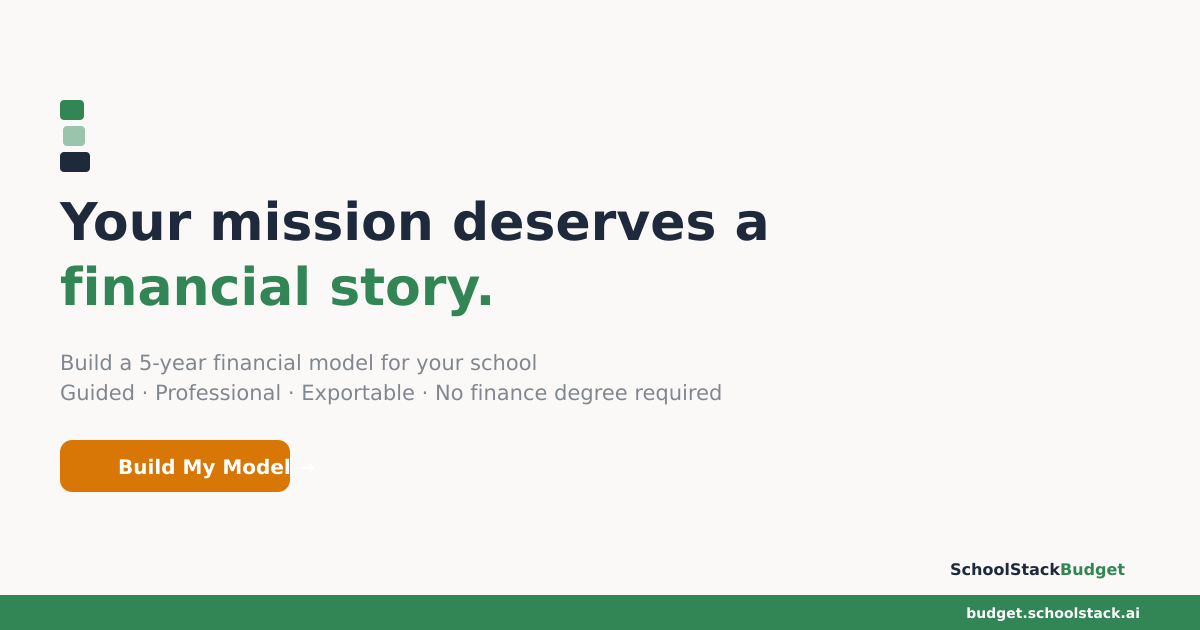
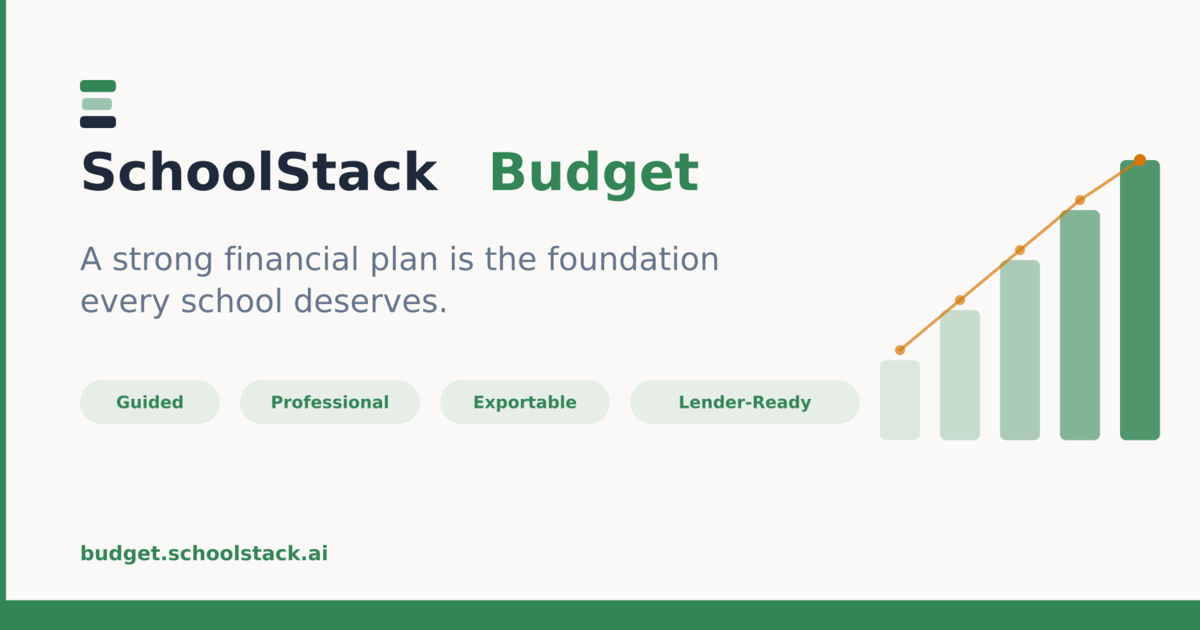
Update OG image and meta tags with new branding
- Regenerated og-image.png with 'SchoolStack Budget' (properly spaced)
- New tagline: 'A strong financial plan is the foundation every school deserves.'
- Added feature pills: Guided, Professional, Exportable, Lender-Ready
- Growth chart graphic on right side with brand colors
- Updated meta description, og:title, og:description, twitter tags to match
- Retained favicon.svg (stacked bars logo), all PNG variants unchanged

Changed region(s): [[0.0, 0.0, 1.0, 0.9952], [0.7092, 0.2413, 0.9867, 0.7238], [0.0617, 0.8444, 0.2775, 0.9048]]

diff --git a/artifacts/school-financial-model/index.html b/artifacts/school-financial-model/index.html
@@ -4,7 +4,7 @@
     <meta charset="UTF-8" />
     <meta name="viewport" content="width=device-width, initial-scale=1.0, maximum-scale=1" />
     <title>SchoolStack Budget — 5-Year Financial Model Builder</title>
-    <meta name="description" content="Your mission deserves a financial story. Build a 5-year financial model for your school — guided, professional, exportable. No finance degree required.">
+    <meta name="description" content="A strong financial plan is the foundation every school deserves. Build a 5-year financial model — guided, professional, exportable, lender-ready.">
     <meta name="theme-color" content="#328555">
 
     <link rel="canonical" href="https://budget.schoolstack.ai">
@@ -16,16 +16,16 @@
 
     <meta property="og:type" content="website">
     <meta property="og:url" content="https://budget.schoolstack.ai">
-    <meta property="og:title" content="SchoolStack Budget — Your mission deserves a financial story.">
-    <meta property="og:description" content="Build a 5-year financial model for your school — guided, professional, exportable. No finance degree required.">
+    <meta property="og:title" content="SchoolStack Budget — 5-Year Financial Model Builder">
+    <meta property="og:description" content="A strong financial plan is the foundation every school deserves. Build a 5-year financial model — guided, professional, exportable, lender-ready.">
     <meta property="og:image" content="https://budget.schoolstack.ai/images/og-image.png">
     <meta property="og:image:width" content="1200">
     <meta property="og:image:height" content="630">
     <meta property="og:site_name" content="SchoolStack Budget">
 
     <meta name="twitter:card" content="summary_large_image">
-    <meta name="twitter:title" content="SchoolStack Budget — Your mission deserves a financial story.">
-    <meta name="twitter:description" content="Build a 5-year financial model for your school — guided, professional, exportable. No finance degree required.">
+    <meta name="twitter:title" content="SchoolStack Budget — 5-Year Financial Model Builder">
+    <meta name="twitter:description" content="A strong financial plan is the foundation every school deserves. Build a 5-year financial model — guided, professional, exportable, lender-ready.">
     <meta name="twitter:image" content="https://budget.schoolstack.ai/images/og-image.png">
 
     <link rel="preconnect" href="https://fonts.googleapis.com">